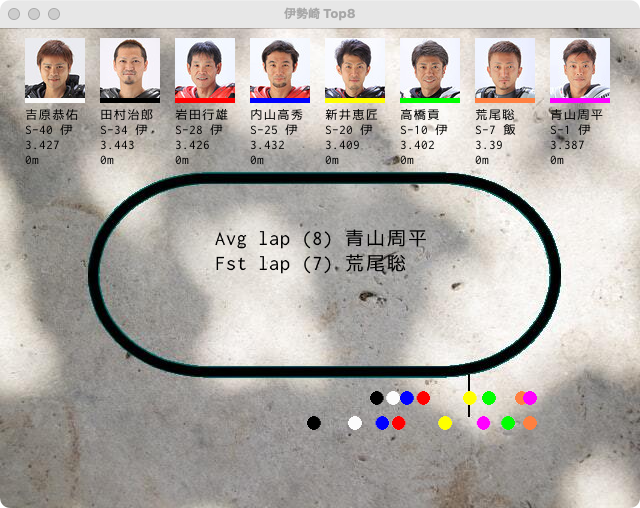
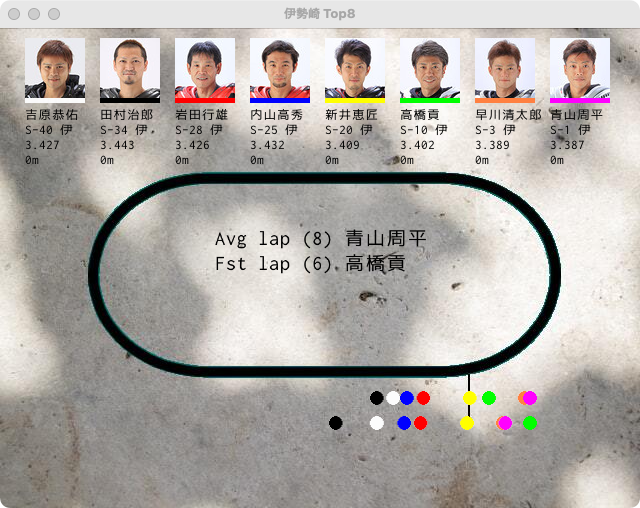
tullys isesaki

diff --git a/_posts/2021-07-06-isesaki-fav8.md b/_posts/2021-07-06-isesaki-fav8.md
@@ -1,0 +1,39 @@
+---
+layout: post
+title: 伊勢崎 Fav 8
+---
+
+### 伊勢崎 有名選手
+
+![isesaki fav8]({{site.baseurl}}/images/isesaki_fav8.png)
+
+#### 野本 佳章 & キリン [YOSSYブログ](https://ameblo.jp/yoshiakinomoto/)
+
+現行ランク A-155。全日本トライアル選手権の最高峰となる国際A級スーパークラス(IAS)の選手。ファンからはYOSSYの愛称で親しまれている。トライアルバイクは特撮テレビドラマ『[仮面ライダークウガ](https://ja.wikipedia.org/wiki/仮面ライダークウガ)』のバイクアクションに憧れて志すようになった。2018年にオートレースへの転向のためオートレース選手養成所に34期生として入学、2019年6月に卒業しオートレース選手としてデビューした。
+
+#### 伊藤正司 & シーマ
+
+現行ランク A-192。高橋貢に次ぐ人気選手で、後輩からの人望も厚い。弟子は松本やすし。
+
+#### 松本 やすし & オブセＲＭＣ [ヤッシー official site](http://yassy.jp/)
+
+現行ランク A-23。オートレース転向前はスーパーモタード全日本選手権MOTO1オールスターズのトップライダーとして活躍、 深いバンク角とドリフトアングルでコーナーを攻め立てるその激しいライディングスタイルとレースに対する真摯な態度、マシンを降りた時の人柄の良さから、多くのファンから愛される。やっし、ヤッシーなどの愛称で呼ばれる。
+
+#### 鈴木 幸治 & エキサイトS
+
+現行ランク B-10。65歳。雨巧者として有名であり、また、身長163.1cm・体重61.6kgという重量級レーサーとしても知られている。現在では一選手としての鈴木幸治よりも、「オート界の絶対王者・高橋貢（22期）」の師匠として有名となっている。
+
+『プレミアムの奇跡』 -2007年6月共同通信社杯のGIプレミアムカップオートレース優勝戦。試走では断トツの一番時計をマークしたものの、やはりオープン戦ということもあり、余り人気は無かった。レースは5番車の池田政和がフライングを切り、再度のスタートを迎えた。その後、鈴木は中段5、6番手に着ける。 前方では全国最強の「雨の鬼」岡部聡と、前年度優勝のディフェンディング・チャンピオン東小野正道、更には前年度準優勝の有吉辰也が熾烈な先頭争いを繰り広げていた。 - 中略 - 車券を持っているかどうかに関わりなく、ほとんど皆が鈴木を応援するという事態にまで発展し、最後は「幸治コール」の大合唱まで起こったのである。
+
+#### 藤本 梨恵 & サバズシ
+
+現行ランク A-213。元プロボクサー。初代OPBF女子東洋太平洋スーパーフライ級王者。元JWBC日本フライ級、同バンタム級王者。入場曲はジャネット・ジャクソン「ALL FOR YOU」。
+
+#### 田崎 萌 & Ｙナカマタチ
+
+現行ランク A-216。スーパースターガールズ王座決定戦 2代目女王（2020年12月27日)。
+
+#### 高橋 絵莉子 & フウコ
+
+現行ランク B-57。元全日本モトクロス選手。
+

diff --git a/_posts/2021-07-01-isesaki-top8.md b/_posts/2021-07-01-isesaki-top8.md
@@ -9,7 +9,34 @@ title: "伊勢崎 Top 8"
 
 ![isesaki top8]({{site.baseurl}}/images/isesaki_top8.png)
 
-### 青山 周平
+#### 青山 周平 & ハルク
 
-所謂トップレーサー。ロードレーサー出身。6/23 - 6/27 伊勢崎G2稲妻賞の映像を見る。
+所謂トップレーサー。ロードレーサー出身。6/23 - 6/27 伊勢崎G2稲妻賞の映像を見る。予選から準決勝まで危なげなく捲り上げ1着をとるが、決勝は、高橋貢にリードをとられ2着になる。
 
+#### 早川 清太郎 & シナモン
+
+ハンデレースではその鋭い追い込みを披露するが、SGなどのオープン戦になると自他共に認めるスタートの遅さがネックとなり、苦戦を強いられることが多い。近況はスタートが早くなり、以前のような出遅れは見られなくなった。
+
+#### 高橋 貢 & ウルフ
+
+絶対王者。生涯獲得賞金は史上最高額を更新中。2014年、自伝的書籍「本気の基本。」
+
+#### 新井 恵匠（けいた）& ミタケ
+
+稲妻賞の準決勝3着。
+
+#### 内山 高秀 & ジャブラニ（ズールー語で祝杯・サッカーW杯語）
+
+稲妻賞の準決勝4着。
+
+#### 岩田 **行雄** & ダイレクト
+
+職業：一匹狼。スタートで一気にカマし、全力で先行車の内に切れ込むレース運びは、勝利への執念が観衆に伝わり、この選手ほど、「常に全力」「手抜きなし」と認められている選手はいない。また、そのカマシスタートは、岩田行雄を語る上で避けることのできない最大の特徴ともいえる。エンジン整備への執念も人一倍であり、孤軍奮闘寝る間も惜しんで整備にあたり続けることは珍しくない。「煙草のけむりが眼に染みる」、64歳。G2稲妻賞の準決勝3着、特別選抜戦4着。
+
+#### 田村 **治郎** & イマサラ
+
+稲妻賞一般戦4着。
+
+#### 吉原 恭佑 & バーシア
+
+稲妻賞準々決勝戦3着。
